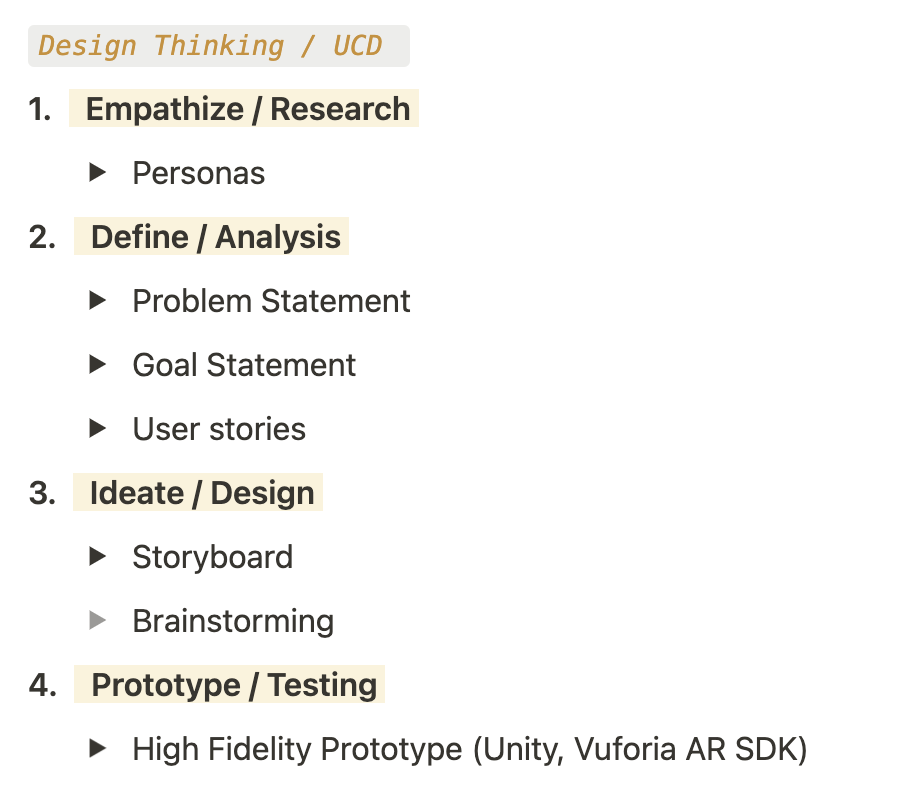
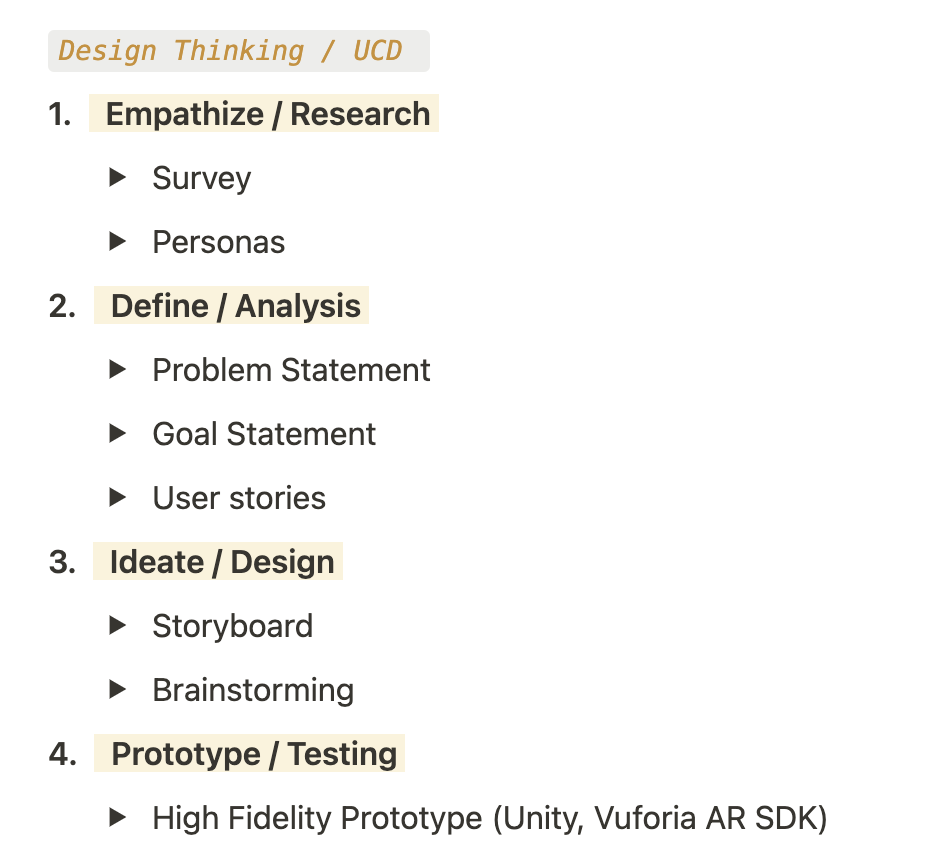
finished firstly all ux projects

Changed region(s): [[0.0312, 0.4232, 0.9042, 0.9975], [0.0312, 0.0302, 0.4677, 0.2418], [0.0312, 0.272, 0.4677, 0.3929]]

diff --git a/src/components/portfolio/PortfolioTwo.vue b/src/components/portfolio/PortfolioTwo.vue
@@ -1125,7 +1125,17 @@
                         <img src="../../assets/img/_/text-overview/overview_arestaurant.png" style="width: 50%">
                       <br>
                     
-               
+                <!--     ____      --><br><div style="border-bottom: 1px solid; color: black; width: 100%;"></div><br>
+                   <br>  
+                                <h6>
+                                Survey
+                                </h6>
+
+                  <br>
+                    <p>
+                      Through the main purpose of this project which is about ordering food in a restaurant almost any person is a potential user. So i decided to do a survey via google forms to get as much participants as possible. I shared my survey via social Media and had at the end a summary of 86 participants.
+                    </p>
+                  <br>
                 
                 
               <!--     ____      --><br><div style="border-bottom: 1px solid; color: black; width: 100%;"></div><br>
@@ -1136,7 +1146,7 @@
 
                 <br>
                   <p>
-                    To start empatize and get in the shoes of the people, i conducted research and identified two primary user groups for the app. Following you see my created Personas.
+                    As next step to empatize and get in the shoes of the people, i evaluated my collected data and identified two primary user groups for the app. Following you see my created Personas.
                   </p>
                 <br>
 
@@ -1214,33 +1224,37 @@
 
                   <br>  
                       <h6>
-                        KPPPP
+                        Brainstorming
                       </h6> <br>
 
                       <p>
-                        lalalallalalala
+                        To get some Ideas of how to design the interaction of the menu card of the restaurant i did some brainstorming and finally decided to make the tracking via image tracking and designed the following Menu cards. 
                       </p>
+
+                         <img src="../../assets/img/_/ux/arestaurant_menucards.png" width="100%" style="display: block; margin: auto">
                   <br>
-                  <p>
-                             <b>See the final App in the "AR/XR" Tab.</b> <br>
-                        </p>
+                 
 
                    <!--     ____      --><br><div style="border-bottom: 1px solid; color: black; width: 100%;"></div><br>
                    <br>  
                         <h6>
-                          Conclusion
+                          Prototyp
                         </h6> <br>
 
                         <p>
-                          lalalallalalala
+                          Through the focus of developing/coding the app there was after creating the app no testing afterwards. 
                         </p>
-                    
-  <!--     ____      --><br><div style="border-bottom: 1px solid; color: black; width: 100%;"></div><br>
-                   
-           
-                <p>
+
+                         <p>
+                               <b>See the final App in the "AR/XR" Tab.</b> 
+                          </p>
+                           <p>
                   ----> click here to see the <a href="https://github.com/Michelle-P95/AR-Restaurant-Menu">Sourcecode on Github</a><br>
                   </p>
+                    
+ 
+           
+               
               
               </div>
 
